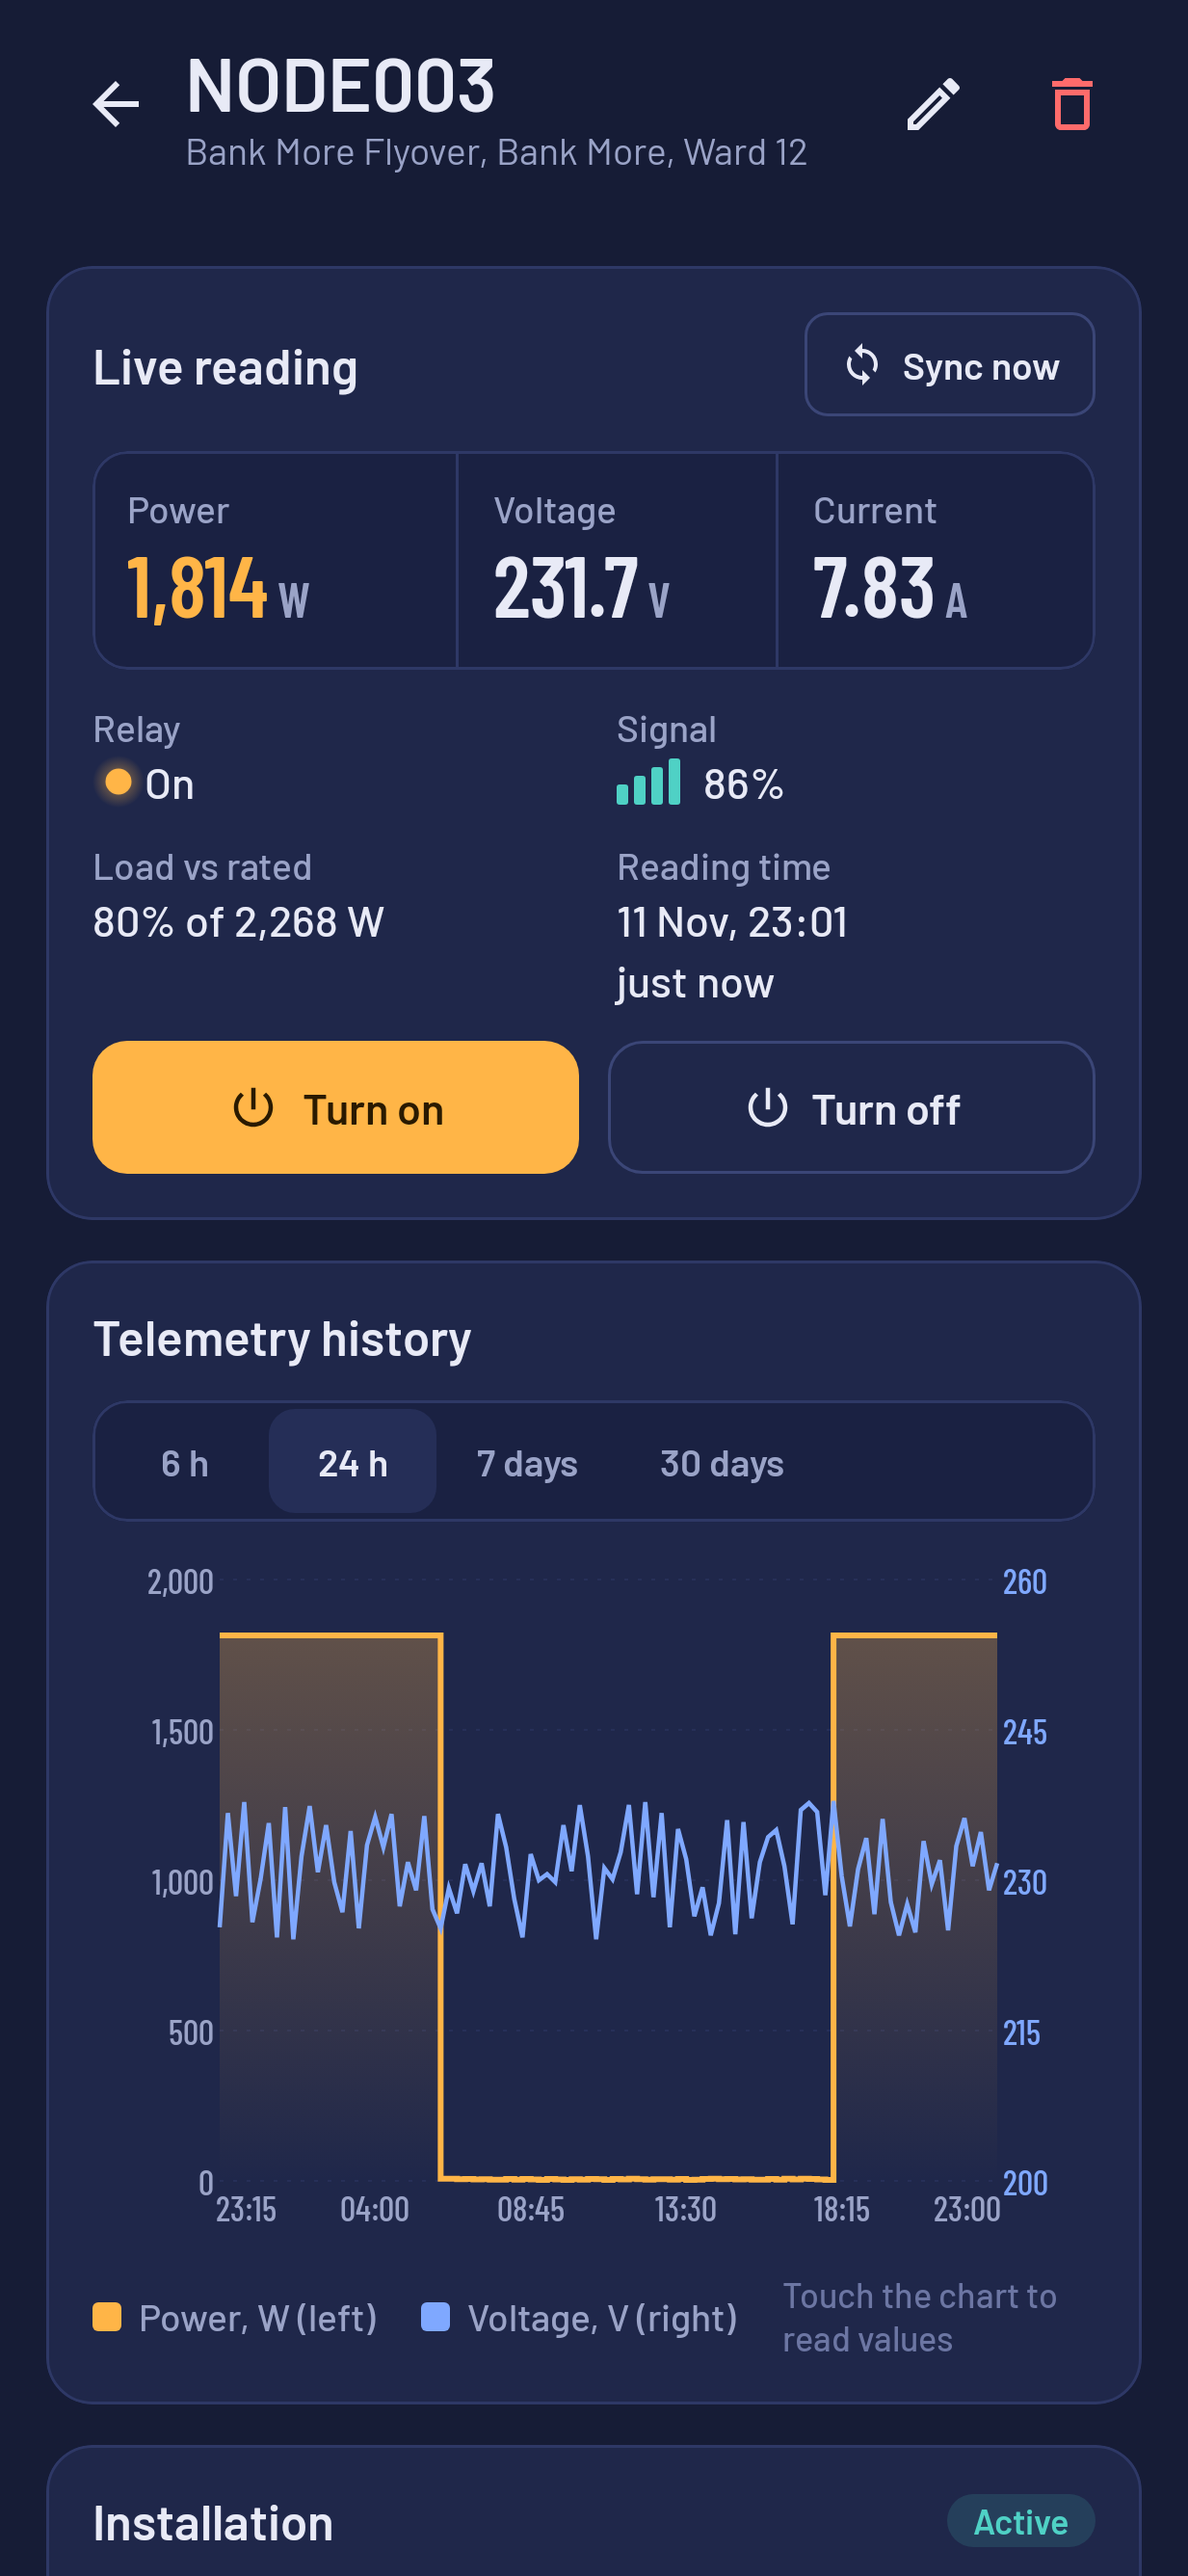
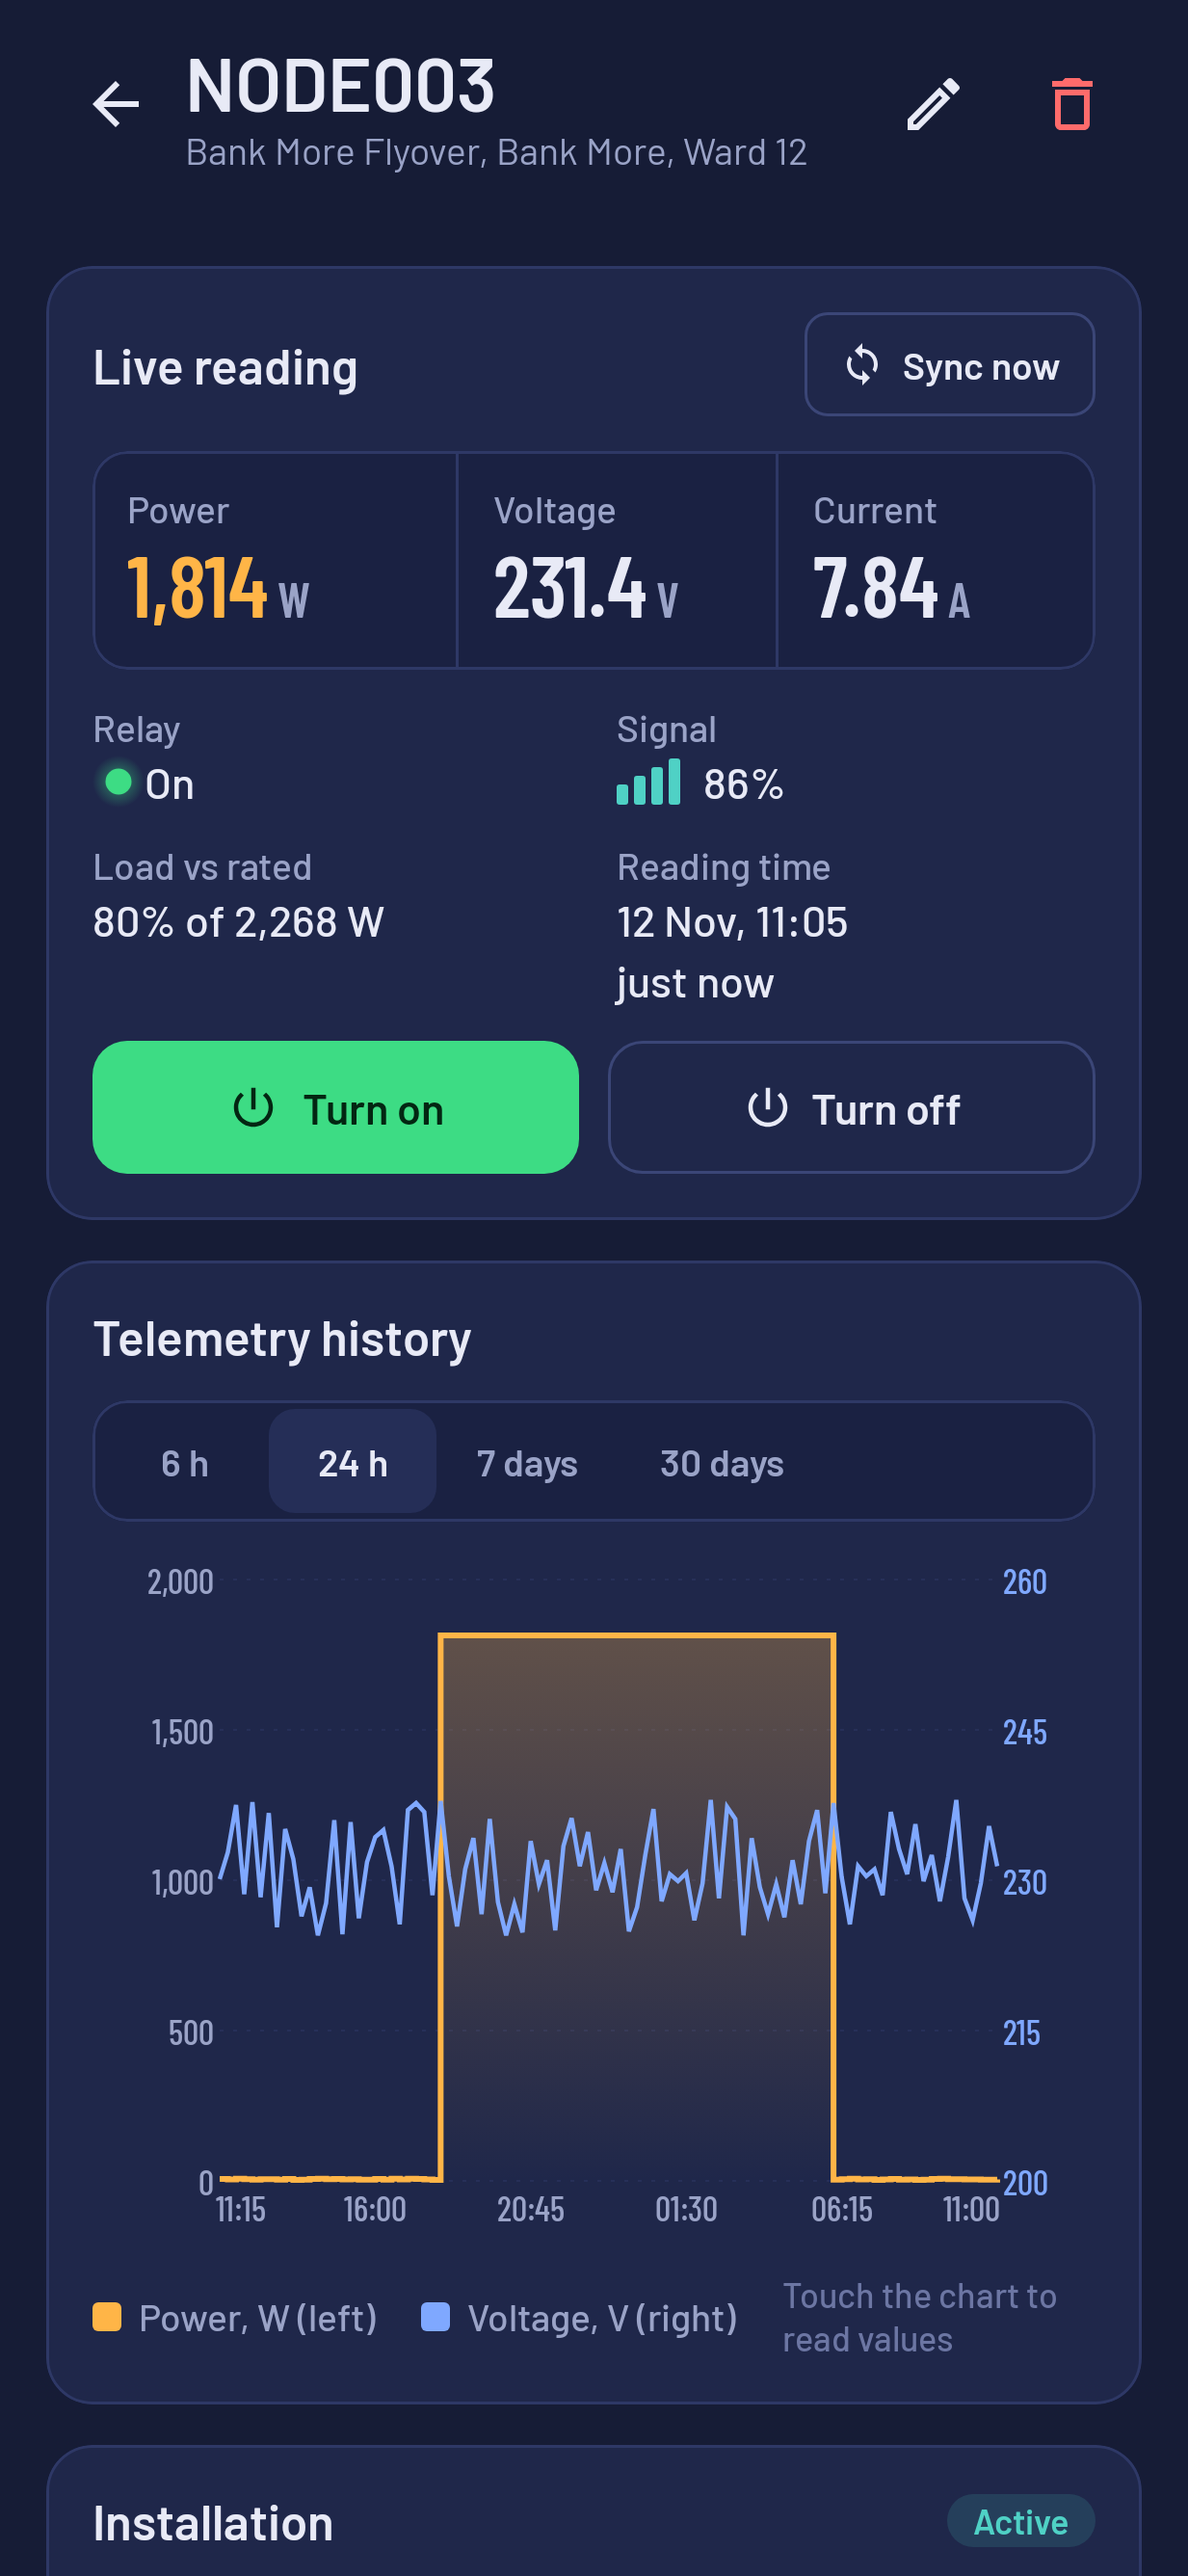
Use green for lights that are on (v1.0.1)

diff --git a/app/src/main/java/com/sslms/console/ui/components/Components.kt b/app/src/main/java/com/sslms/console/ui/components/Components.kt
@@ -55,7 +55,7 @@ import com.sslms.console.data.LampState
 import com.sslms.console.ui.theme.C
 import kotlinx.coroutines.launch
 
-/** The signature element: a lamp dot that glows sodium-amber when lit. */
+/** The signature element: a lamp dot that glows green when the lights are on. */
 @Composable
 fun Lamp(state: LampState, size: Dp = 12.dp) {
     val label = when (state) { LampState.ON -> "Lights on"; LampState.OFF -> "Lights off"; LampState.OFFLINE -> "Offline"; LampState.UNKNOWN -> "No reading" }
@@ -63,8 +63,8 @@ fun Lamp(state: LampState, size: Dp = 12.dp) {
         val r = size.toPx() / 2
         when (state) {
             LampState.ON -> {
-                drawCircle(Brush.radialGradient(listOf(C.Sodium.copy(alpha = 0.55f), Color.Transparent), radius = r * 2), radius = r * 2)
-                drawCircle(C.Sodium, radius = r)
+                drawCircle(Brush.radialGradient(listOf(C.Lit.copy(alpha = 0.55f), Color.Transparent), radius = r * 2), radius = r * 2)
+                drawCircle(C.Lit, radius = r)
             }
             LampState.OFF -> drawCircle(C.Muted, radius = r - 1.dp.toPx(), style = Stroke(2.dp.toPx()))
             LampState.OFFLINE -> drawCircle(C.Line2, radius = r)
@@ -157,9 +157,9 @@ fun PrimaryButton(text: String, onClick: () -> Unit, modifier: Modifier = Modifi
 }
 
 @Composable
-fun SodiumButton(text: String, onClick: () -> Unit, modifier: Modifier = Modifier, enabled: Boolean = true, icon: ImageVector? = null) {
+fun LitButton(text: String, onClick: () -> Unit, modifier: Modifier = Modifier, enabled: Boolean = true, icon: ImageVector? = null) {
     Button(onClick, modifier.height(46.dp), enabled = enabled, shape = RoundedCornerShape(12.dp),
-        colors = ButtonDefaults.buttonColors(containerColor = C.Sodium, contentColor = C.OnSodium, disabledContainerColor = C.Sodium.copy(alpha = 0.35f), disabledContentColor = C.OnSodium)) {
+        colors = ButtonDefaults.buttonColors(containerColor = C.Lit, contentColor = C.OnLit, disabledContainerColor = C.Lit.copy(alpha = 0.35f), disabledContentColor = C.OnLit)) {
         if (icon != null) { Icon(icon, null, Modifier.size(18.dp)); Spacer(Modifier.width(8.dp)) }
         Text(text, style = MaterialTheme.typography.labelLarge.copy(color = Color.Unspecified))
     }
@@ -244,7 +244,7 @@ fun ConfirmDialog(
             Button(
                 onClick = { busy = true; scope.launch { try { onConfirm(); onDismiss() } catch (_: Exception) { busy = false } } },
                 enabled = !busy,
-                colors = ButtonDefaults.buttonColors(containerColor = if (danger) C.Red else C.Sodium, contentColor = if (danger) Color(0xFF2B0606) else C.OnSodium),
+                colors = ButtonDefaults.buttonColors(containerColor = if (danger) C.Red else C.Lit, contentColor = if (danger) Color(0xFF2B0606) else C.OnLit),
             ) { Text(if (busy) "Working…" else confirmLabel, fontWeight = FontWeight.SemiBold) }
         },
     )

diff --git a/app/src/main/java/com/sslms/console/ui/screens/OverviewScreen.kt b/app/src/main/java/com/sslms/console/ui/screens/OverviewScreen.kt
@@ -60,7 +60,7 @@ import com.sslms.console.ui.components.Meter
 import com.sslms.console.ui.components.NodeMap
 import com.sslms.console.ui.components.Panel
 import com.sslms.console.ui.components.PanelHead
-import com.sslms.console.ui.components.SodiumButton
+import com.sslms.console.ui.components.LitButton
 import com.sslms.console.ui.components.rememberLoader
 import com.sslms.console.ui.theme.C
 import com.sslms.console.ui.theme.Readout
@@ -107,7 +107,7 @@ fun OverviewScreen(nav: NavController) {
                 Row(Modifier.height(IntrinsicSize.Min)) {
                     Stat(Modifier.weight(1f), "Nodes online", if (fleet.data != null) "$online" else "—", "/ ${nodes.size}") { Meter(online.toFloat(), nodes.size.toFloat(), C.Teal) }
                     VLine()
-                    Stat(Modifier.weight(1f), "Lamps lit", if (fleet.data != null) num(litLamps, 0) else "—", "/ ${num(lamps, 0)}", valueColor = C.Sodium) { Meter(litLamps.toFloat(), lamps.toFloat(), C.Sodium) }
+                    Stat(Modifier.weight(1f), "Lamps lit", if (fleet.data != null) num(litLamps, 0) else "—", "/ ${num(lamps, 0)}", valueColor = C.Lit) { Meter(litLamps.toFloat(), lamps.toFloat(), C.Lit) }
                 }
                 Divider()
                 Row(Modifier.height(IntrinsicSize.Min)) {
@@ -126,7 +126,7 @@ fun OverviewScreen(nav: NavController) {
         item {
             Row(horizontalArrangement = Arrangement.spacedBy(10.dp)) {
                 GhostButton("All off", { confirm = false }, Modifier.weight(1f), icon = Icons.Outlined.PowerSettingsNew, enabled = online > 0)
-                SodiumButton("All on", { confirm = true }, Modifier.weight(1f), icon = Icons.Outlined.PowerSettingsNew, enabled = online > 0)
+                LitButton("All on", { confirm = true }, Modifier.weight(1f), icon = Icons.Outlined.PowerSettingsNew, enabled = online > 0)
             }
         }
 
@@ -265,7 +265,7 @@ private fun SelectedNodeCard(n: Node, onOpen: () -> Unit, onControl: (Boolean) -
         )
         Row(horizontalArrangement = Arrangement.spacedBy(8.dp)) {
             if (n.state != LampState.OFFLINE) {
-                SodiumButton("Turn on", { onControl(true) }, Modifier.weight(1f))
+                LitButton("Turn on", { onControl(true) }, Modifier.weight(1f))
                 GhostButton("Turn off", { onControl(false) }, Modifier.weight(1f))
             }
             GhostButton("Open", onOpen, Modifier.weight(1f), icon = Icons.Outlined.ChevronRight)

diff --git a/app/src/main/java/com/sslms/console/ui/screens/DevicesScreen.kt b/app/src/main/java/com/sslms/console/ui/screens/DevicesScreen.kt
@@ -228,7 +228,7 @@ private fun DeviceCard(n: Node, busy: Boolean, onOpen: () -> Unit, onControl: (B
         Row(Modifier.padding(end = 10.dp), verticalAlignment = Alignment.CenterVertically) {
             Metric("Lamps", num(d.noOfStreetLights, 0), Modifier.weight(1f))
             Metric("Rated", "${num(d.ratedLoad, 0)} W", Modifier.weight(1.2f))
-            Metric("Live", if (n.state == LampState.OFFLINE) "—" else "${num(n.power, 0)} W", Modifier.weight(1.2f), if (n.state == LampState.ON) C.Sodium else C.Text)
+            Metric("Live", if (n.state == LampState.OFFLINE) "—" else "${num(n.power, 0)} W", Modifier.weight(1.2f), if (n.state == LampState.ON) C.Lit else C.Text)
             Relay(n.state, enabled = d.online && !busy, onControl = onControl)
         }
     }
@@ -245,7 +245,7 @@ private fun Metric(label: String, value: String, modifier: Modifier, color: Colo
 @Composable
 fun Relay(state: LampState, enabled: Boolean, onControl: (Boolean) -> Unit) {
     Row(Modifier.clip(RoundedCornerShape(8.dp)).border(BorderStroke(1.dp, C.Line2), RoundedCornerShape(8.dp))) {
-        RelayBtn("On", state == LampState.ON, C.Sodium, C.OnSodium, enabled) { onControl(true) }
+        RelayBtn("On", state == LampState.ON, C.Lit, C.OnLit, enabled) { onControl(true) }
         Box(Modifier.width(1.dp).height(34.dp).background(C.Line2))
         RelayBtn("Off", state == LampState.OFF, C.Panel2, C.Text, enabled) { onControl(false) }
     }

diff --git a/app/src/main/java/com/sslms/console/ui/screens/DeviceDetailScreen.kt b/app/src/main/java/com/sslms/console/ui/screens/DeviceDetailScreen.kt
@@ -64,7 +64,7 @@ import com.sslms.console.ui.components.Panel
 import com.sslms.console.ui.components.PanelHead
 import com.sslms.console.ui.components.Segmented
 import com.sslms.console.ui.components.SignalBars
-import com.sslms.console.ui.components.SodiumButton
+import com.sslms.console.ui.components.LitButton
 import com.sslms.console.ui.components.Tone
 import com.sslms.console.ui.components.WarnNote
 import com.sslms.console.ui.components.rememberLoader
@@ -171,7 +171,7 @@ fun DeviceDetailScreen(nav: NavController, deviceId: String) {
                 }
                 sync?.first?.source?.let { Text("Source: ${if (it == "HARDWARE_REALTIME") "live from the hardware" else it}", style = MaterialTheme.typography.bodySmall) }
                 Row(horizontalArrangement = Arrangement.spacedBy(10.dp)) {
-                    SodiumButton(if (sending == true) "Sending…" else "Turn on", { control(true) }, Modifier.weight(1f), enabled = d.online && sending == null, icon = Icons.Outlined.PowerSettingsNew)
+                    LitButton(if (sending == true) "Sending…" else "Turn on", { control(true) }, Modifier.weight(1f), enabled = d.online && sending == null, icon = Icons.Outlined.PowerSettingsNew)
                     GhostButton(if (sending == false) "Sending…" else "Turn off", { control(false) }, Modifier.weight(1f), enabled = d.online && sending == null, icon = Icons.Outlined.PowerSettingsNew)
                 }
             }

diff --git a/app/src/main/java/com/sslms/console/ui/screens/LoginScreen.kt b/app/src/main/java/com/sslms/console/ui/screens/LoginScreen.kt
@@ -168,13 +168,13 @@ private fun StreetScene(modifier: Modifier) {
             val head = Offset(x + 30.dp.toPx(), topY)
             // light pool
             val pool = Path().apply { moveTo(head.x, head.y + 6.dp.toPx()); lineTo(head.x - 34.dp.toPx(), baseY); lineTo(head.x + 34.dp.toPx(), baseY); close() }
-            drawPath(pool, Brush.verticalGradient(listOf(C.Sodium.copy(alpha = 0.45f * on), Color.Transparent), startY = head.y, endY = baseY))
+            drawPath(pool, Brush.verticalGradient(listOf(C.Lit.copy(alpha = 0.4f * on), Color.Transparent), startY = head.y, endY = baseY))
             // post
             val post = Path().apply { moveTo(x, baseY); lineTo(x, topY + 8.dp.toPx()); quadraticTo(x, topY, x + 8.dp.toPx(), topY); lineTo(head.x - 8.dp.toPx(), topY) }
             drawPath(post, C.Line2, style = Stroke(4.dp.toPx(), cap = StrokeCap.Round))
             // lamp head
             drawRoundRect(
-                if (on > 0.5f) C.Sodium else Color(0xFF4A5588),
+                if (on > 0.5f) C.Lit else Color(0xFF4A5588),
                 topLeft = Offset(head.x - 8.dp.toPx(), head.y - 3.dp.toPx()), size = Size(16.dp.toPx(), 6.dp.toPx()),
                 cornerRadius = androidx.compose.ui.geometry.CornerRadius(2.dp.toPx()),
             )

diff --git a/app/src/main/java/com/sslms/console/ui/theme/Theme.kt b/app/src/main/java/com/sslms/console/ui/theme/Theme.kt
@@ -15,7 +15,7 @@ import androidx.compose.ui.unit.dp
 import androidx.compose.ui.unit.sp
 import com.sslms.console.R
 
-// "Sodium night": indigo night sky, sodium-lamp amber for lit, teal healthy, red faults.
+// Indigo night sky; green = lights on, teal = healthy, red = faults, amber = interface accent.
 object C {
     val Night = Color(0xFF161C36)
     val Night2 = Color(0xFF1A2142)
@@ -28,6 +28,9 @@ object C {
     val Faint = Color(0xFF6C76A3)
     val Sodium = Color(0xFFFFB547)
     val OnSodium = Color(0xFF2A1A00)
+    /** Lights that are on. */
+    val Lit = Color(0xFF3DDC84)
+    val OnLit = Color(0xFF032612)
     val Teal = Color(0xFF4FD1C5)
     val Red = Color(0xFFFF6B6B)
     val Warn = Color(0xFFF5C451)

diff --git a/app/src/main/java/com/sslms/console/ui/components/NodeMap.kt b/app/src/main/java/com/sslms/console/ui/components/NodeMap.kt
@@ -192,9 +192,9 @@ private fun dotBitmap(state: LampState, faulted: Boolean, selected: Boolean, den
     val p = Paint(Paint.ANTI_ALIAS_FLAG)
     when (state) {
         LampState.ON -> {
-            p.shader = RadialGradient(cx, cx, r * 3f, intArrayOf(C.Sodium.copy(alpha = 0.6f).toArgb(), 0x00FFB547), null, Shader.TileMode.CLAMP)
+            p.shader = RadialGradient(cx, cx, r * 3f, intArrayOf(C.Lit.copy(alpha = 0.6f).toArgb(), 0x003DDC84), null, Shader.TileMode.CLAMP)
             cv.drawCircle(cx, cx, r * 3f, p)
-            p.shader = null; p.color = C.Sodium.toArgb()
+            p.shader = null; p.color = C.Lit.toArgb()
             cv.drawCircle(cx, cx, r, p)
         }
         LampState.OFF -> {

diff --git a/README.md b/README.md
@@ -4,12 +4,12 @@ Native Android app for the Smart Street Light Monitoring System (SSLMS), written
 It covers all 21 endpoints in the *SSLMS API Integration Reference*. It also has a **demo mode** with sample data
 (12 nodes around Dhanbad), so every screen works without the backend.
 
-- Package: `com.sslms.console`, version 1.0.0
+- Package: `com.sslms.console`, version 1.0.1
 - Runs on Android 8.0 (API 26) and newer
 
 ## Install the ready-made APK
 
-1. Copy `SSLMS-1.0.0.apk` to the phone (WhatsApp to yourself, Google Drive, or a USB cable).
+1. Copy `SSLMS-1.0.1.apk` to the phone (WhatsApp to yourself, Google Drive, or a USB cable).
 2. Tap it. If Android asks, allow **Install unknown apps** for the app you opened it from.
 3. Open **SSLMS**, choose **Demo data**, and sign in with `admin` / `admin123`.
 
